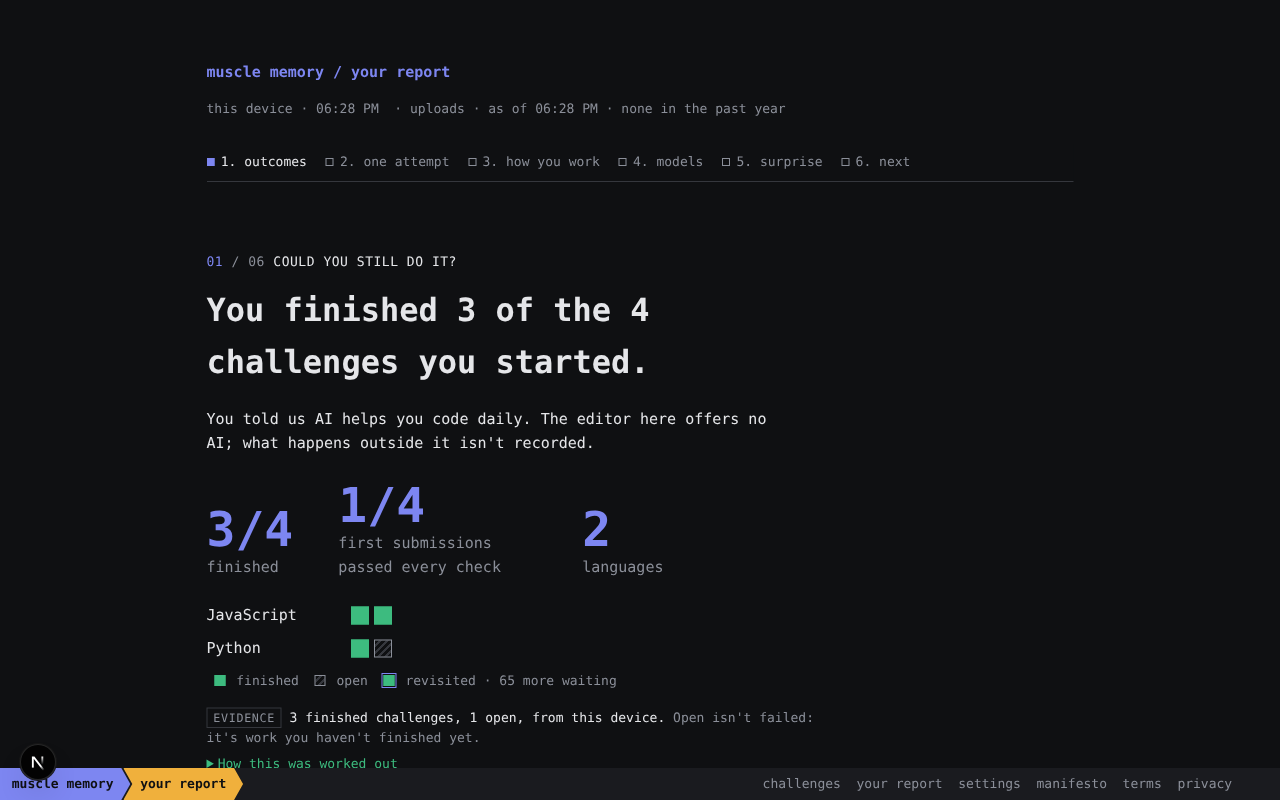
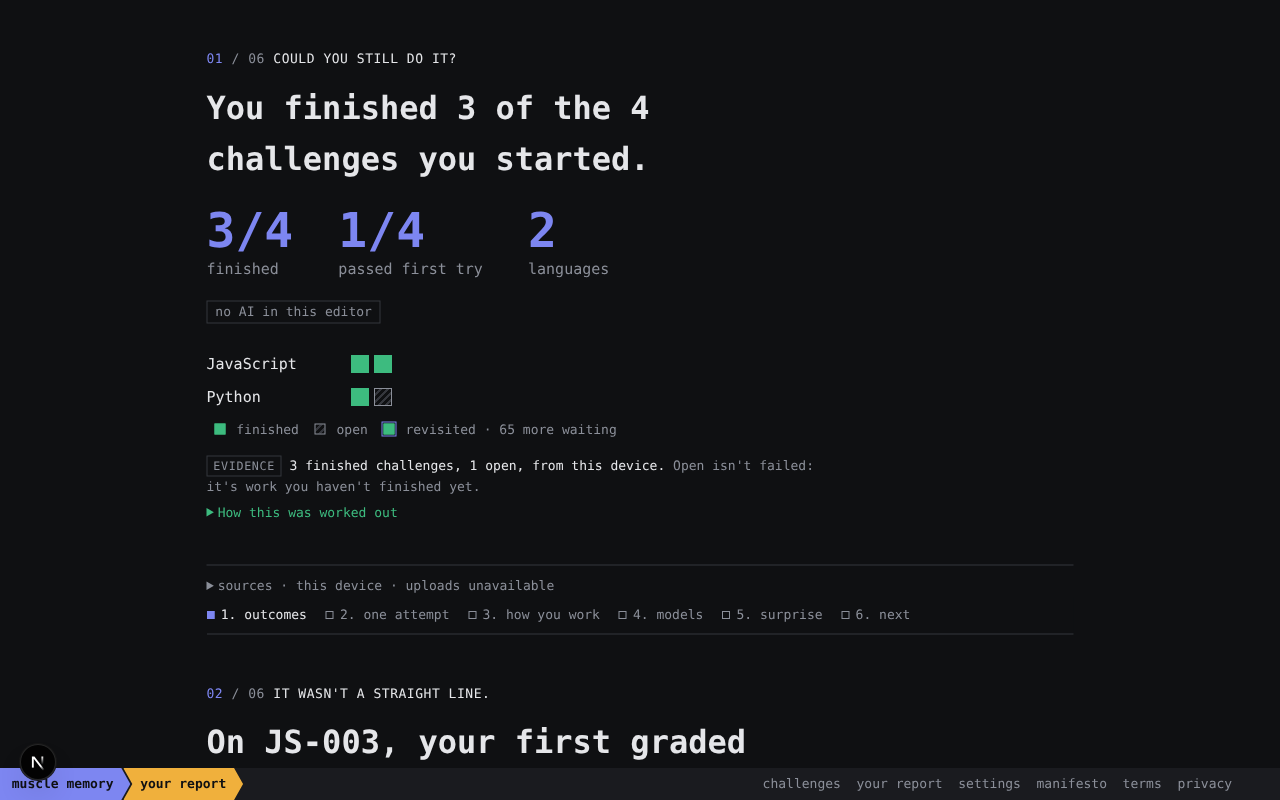
Lead with the reveal and state why people aren't compared (ENG-374)
Root found the mobile first viewport spent on branding, freshness metadata and
navigation, and the people column implied a checked cohort. Chapter 1's
headline and numbers now open the page, sources collapse to one line after it,
the AI note is a label, and comparisons with people say they're not on yet
because no minimum group size or player-facing aggregate path is approved.

diff --git a/apps/web/lib/report.ts b/apps/web/lib/report.ts
@@ -23,6 +23,17 @@ export type ReportAttempt = AttemptSummary & { source: Source };
 export const SMALL_STEP_SHARE = 0.75;
 export const LARGE_STEP_SHARE = 0.3;
 export const FREQUENT_CHECKS = 3;
+/**
+ * Comparisons with other people. There is no player-facing aggregate path and no approved minimum
+ * group size (docs/legal.md, publication boundaries), so the report states that reason; it never
+ * implies a cohort was checked and came back small. Replace with a real cohort read once both exist.
+ */
+export const PEOPLE = {
+  available: false,
+  label: "not compared yet",
+  reason:
+    "Comparing you with other people needs an approved minimum group size first. Until then the report shows no figure about anyone else.",
+} as const;
 /** At most this many tasks in the model comparison, so receipt reads stay bounded. */
 export const COMPARISON_TASKS = 3;
 
@@ -72,7 +83,8 @@ export interface OutcomesChapter {
   id: "outcomes";
   title: "Could you still do it?";
   headline: string;
-  context: string | null;
+  /** A short label when the person said AI does much of their coding; the full sentence is in the details. */
+  aiNote: string | null;
   heroes: { value: string; label: string }[];
   languages: { language: string; label: string; items: ChallengeOutcome[] }[];
   unexplored: number;
@@ -258,7 +270,7 @@ function outcomes(input: ReportInput): {
     profile?.aiUse === "daily" ||
     profile?.aiShare === "most" ||
     profile?.aiShare === "nearly-all";
-  const context = heavy
+  const aiDetail = heavy
     ? `You told us AI ${profile?.aiUse === "daily" ? "helps you code daily" : "writes much of the code you ship"}. The editor here offers no AI; what happens outside it isn't recorded.`
     : null;
   const firsts = attempts.filter(
@@ -270,7 +282,7 @@ function outcomes(input: ReportInput): {
   if (firsts.length)
     heroes.push({
       value: `${firsts.filter((a) => a.values.firstSubmit === 1).length}/${firsts.length}`,
-      label: "first submissions passed every check",
+      label: "passed first try",
     });
   if (revisited)
     heroes.push({ value: `${revisited}`, label: `revisited` });
@@ -286,7 +298,7 @@ function outcomes(input: ReportInput): {
       id: "outcomes",
       title: "Could you still do it?",
       headline,
-      context,
+      aiNote: heavy ? "no AI in this editor" : null,
       heroes: heroes.slice(0, 3),
       languages: languages.map((language) => ({
         language,
@@ -301,6 +313,7 @@ function outcomes(input: ReportInput): {
             ? "Open isn't failed: it's work you haven't finished yet."
             : undefined,
         details: [
+          ...(aiDetail ? [aiDetail] : []),
           "Finished means a submission passed every check and rule at least once. Open means started on this device or in your uploads without that.",
           "Revisited means more than one attempt or completion of the same challenge.",
           firsts.length
@@ -499,6 +512,7 @@ function habits(attempts: readonly ReportAttempt[]): HabitChapter | null {
           ? `Came back after leaving: ${returned.join(", ")}.`
           : "No recorded returns to an unfinished attempt.",
         "Attempts with recording gaps or oversized edits are left out rather than counted as zero.",
+        `People: ${PEOPLE.reason}`,
       ],
     },
   };
@@ -620,7 +634,7 @@ function minds(input: ReportInput): {
         details: [
           "A model result counts only when its recorded runtime and editor diagnostics match yours; otherwise it's withheld.",
           "Models use edit, run and submit tools rather than a keyboard. Outside help on either side isn't recorded.",
-          "People like you: not enough comparable participants yet. No cohort is shown until enough people share the same challenge version, language and conditions, and small groups stay hidden.",
+          `People: ${PEOPLE.reason}`,
         ],
       },
     },
@@ -762,7 +776,7 @@ function next(
       ? {
           label: "Add your coding experience (optional)",
           href: "/settings/profile/experience",
-          why: "When enough people take part, it lets the report compare you with developers like you. Skip it any time; nothing here depends on it.",
+          why: "Used only if comparisons with other people are switched on. Skip it any time; nothing here depends on it.",
         }
       : null;
   return {

diff --git a/apps/web/app/stats/stats.tsx b/apps/web/app/stats/stats.tsx
@@ -1,7 +1,7 @@
 "use client";
 import Link from "next/link";
 import React, { useMemo, useState } from "react";
-import { buildReport, mergeEvidence, type Report } from "../../lib/report";
+import { buildReport, mergeEvidence, PEOPLE, type Report } from "../../lib/report";
 import type { ChallengeSummary } from "../../lib/challenges";
 import { useReportData, type HistoryStatus } from "./report-data";
 import { ChapterNav, ChapterView, Preview } from "./report-view";
@@ -43,9 +43,20 @@ function Freshness({
 }) {
   const time = (iso: string) =>
     new Date(iso).toLocaleTimeString([], { hour: "2-digit", minute: "2-digit" });
+  const uploads =
+    history.state === "ready"
+      ? history.value.attempts.length
+        ? `+${history.value.attempts.length} uploaded`
+        : "no uploads"
+      : history.state === "loading" || history.state === "idle"
+        ? "adding uploads…"
+        : "uploads unavailable";
   return (
-    <p className="report-status" role="status">
-      <span>
+    <details className="report-sources">
+      <summary>
+        sources <span className="t-dim">· this device · {uploads}</span>
+      </summary>
+      <p role="status">
         From this device{at ? `, read ${time(at)}` : ""}.{" "}
         {history.state === "ready"
           ? history.value.attempts.length
@@ -55,13 +66,13 @@ function Freshness({
             ? "Adding your uploads…"
             : history.message}
         {history.state === "ready" && history.notice ? ` ${history.notice}` : ""}
-      </span>
+      </p>
       {history.state === "ready" && history.value.next && (
         <button type="button" className="t-cmd" onClick={more}>
           read more uploads
         </button>
       )}
-    </p>
+    </details>
   );
 }
 
@@ -102,13 +113,15 @@ export function ReportBody({
   const count = report.chapters.length;
   return (
     <>
-      <header className="report-hero">
-        <h1 className="t-brand report-brand">muscle memory / your report</h1>
+      {/* The reveal comes first; where the evidence came from and the chapter list follow it. */}
+      <h1 className="sr-only">Your Muscle Memory report</h1>
+      <ChapterView chapter={report.chapters[0]} index={0} count={count} report={report} />
+      <div className="report-after-lead">
         {status}
-      </header>
-      <ChapterNav chapters={report.chapters} />
-      {report.chapters.map((c, i) => (
-        <ChapterView key={c.id} chapter={c} index={i} count={count} report={report} />
+        <ChapterNav chapters={report.chapters} />
+      </div>
+      {report.chapters.slice(1).map((c, i) => (
+        <ChapterView key={c.id} chapter={c} index={i + 1} count={count} report={report} />
       ))}
       {!report.chapters.some((c) => c.id === "story") && <Preview />}
     </>
@@ -201,8 +214,7 @@ export function Dashboard({ catalog }: { catalog: ChallengeSummary[] }) {
                 Nothing here measures intelligence, attention or dependence on AI.
                 No recorded help in the editor doesn&apos;t mean no outside help.
                 Model results are single observed tries on the exact same
-                challenge version. Comparisons with other people appear only once
-                enough comparable participants exist, with small groups hidden.
+                challenge version. {PEOPLE.reason}
               </p>
               <p>
                 Reset clears this device&apos;s progress, not your uploads, so the

diff --git a/apps/web/lib/report.test.ts b/apps/web/lib/report.test.ts
@@ -110,7 +110,7 @@ test("rich synthetic evidence tells all six chapters from what was recorded", ()
   const o = chapter<OutcomesChapter>(r, "outcomes")!;
   assert.equal(o.headline, "You finished all 2 challenges you started.");
   assert.deepEqual(o.heroes[0], { value: "2/2", label: "finished" });
-  assert.deepEqual(o.heroes[1], { value: "0/2", label: "first submissions passed every check" });
+  assert.deepEqual(o.heroes[1], { value: "0/2", label: "passed first try" });
   assert.equal(o.languages.length, 2);
   assert.ok(o.languages[0].items[0].revisited, "two completions are a revisit");
 
@@ -134,7 +134,8 @@ test("rich synthetic evidence tells all six chapters from what was recorded", ()
   assert.equal(pyRow.models[0].cell.kind, "withheld", "a runtime mismatch withholds the outcome");
   assert.match(m.headline, /You solved 2 of 2\. synthetic\/model solved 1 of 1\./);
   assert.match(m.evidence.caveat!, /one observed try, not a success rate/);
-  assert.match(m.evidence.details.join(" "), /not enough comparable participants/);
+  assert.match(m.evidence.details.join(" "), /needs an approved minimum group size/);
+  assert.doesNotMatch(JSON.stringify(r.chapters), /not enough|too few/, "no cohort result is implied");
 
   const u = chapter<SurpriseChapter>(r, "surprise")!;
   assert.equal(u.kind, "recovered");
@@ -195,9 +196,11 @@ test("stories never form from a trace without checks, and gaps are shortened, no
 
 test("AI background shapes copy only when the person said so", () => {
   const p = progressOf({ "JS-001": { completedAt: null, completions: 0 } });
-  assert.equal(chapter<OutcomesChapter>(buildReport(input({ progress: p })), "outcomes")!.context, null);
-  assert.equal(chapter<OutcomesChapter>(buildReport(input({ progress: p, profile: { aiUse: "rarely" } })), "outcomes")!.context, null);
-  const c = chapter<OutcomesChapter>(buildReport(input({ progress: p, profile: { aiUse: "daily" } })), "outcomes")!.context!;
+  assert.equal(chapter<OutcomesChapter>(buildReport(input({ progress: p })), "outcomes")!.aiNote, null);
+  assert.equal(chapter<OutcomesChapter>(buildReport(input({ progress: p, profile: { aiUse: "rarely" } })), "outcomes")!.aiNote, null);
+  const o = chapter<OutcomesChapter>(buildReport(input({ progress: p, profile: { aiUse: "daily" } })), "outcomes")!;
+  assert.equal(o.aiNote, "no AI in this editor");
+  const c = o.evidence.details[0];
   assert.match(c, /editor here offers no AI/);
   assert.doesNotMatch(c, /without AI|unaided|deteriorat/i);
 });

diff --git a/apps/web/app/stats/report-view.tsx b/apps/web/app/stats/report-view.tsx
@@ -15,7 +15,7 @@ import type {
   StoryChapter,
   SurpriseChapter,
 } from "../../lib/report";
-import { shareText } from "../../lib/report";
+import { PEOPLE, shareText } from "../../lib/report";
 
 const percent = (x: number) => `${Math.round(x * 1000) / 10}%`;
 
@@ -75,7 +75,6 @@ function Outcomes({ c }: { c: OutcomesChapter }) {
   return (
     <>
       <h2 className="report-headline">{c.headline}</h2>
-      {c.context && <p className="report-context">{c.context}</p>}
       <dl className="report-heroes">
         {c.heroes.map((h) => (
           <div key={h.label}>
@@ -84,6 +83,7 @@ function Outcomes({ c }: { c: OutcomesChapter }) {
           </div>
         ))}
       </dl>
+      {c.aiNote && <p className="report-chip">{c.aiNote}</p>}
       <div className="report-grid" role="group" aria-label="Challenges you started">
         {c.languages.map((l) => (
           <div className="report-grid-row" key={l.language}>
@@ -209,8 +209,7 @@ function Habits({ c }: { c: HabitChapter }) {
       )}
       {c.checks.length > 1 && <p className="t-dim report-caption">checks per attempt, oldest first</p>}
       <p className="report-cohort">
-        <span className="t-dim">People like you:</span> not enough comparable
-        participants yet. Your position appears here once there are.
+        <span className="t-dim">People:</span> {PEOPLE.label}
       </p>
       <EvidenceLine evidence={c.evidence} />
     </>
@@ -301,7 +300,7 @@ function Minds({ c }: { c: ComparisonChapter }) {
                   </td>
                 )}
                 <td>
-                  <span className="t-dim">too few yet</span>
+                  <span className="t-dim">{PEOPLE.label}</span>
                 </td>
               </tr>
             ))}

diff --git a/apps/web/app/stats/stats.css b/apps/web/app/stats/stats.css
@@ -41,7 +41,36 @@
 
 /* Lead and status */
 .report-hero {
-  margin: 2.4em 0 1.6em;
+  margin: 1.2em 0 1.6em;
+}
+.report-chapter:first-of-type {
+  padding-top: 0.8em;
+}
+.report-after-lead {
+  display: flex;
+  flex-wrap: wrap;
+  align-items: baseline;
+  gap: 0 3ch;
+}
+.report-sources {
+  font-size: var(--text-sm, 13px);
+  color: var(--t-dim);
+  padding: 0.8em 0 0;
+}
+.report-sources summary {
+  padding: 0;
+}
+.report-sources p {
+  margin: 0.4em 0;
+  max-width: 72ch;
+}
+.report-chip {
+  display: inline-block;
+  font-size: var(--text-sm, 13px);
+  color: var(--t-dim);
+  border: 1px solid var(--t-line);
+  padding: 0 1ch;
+  margin: 0 0 0.8em;
 }
 .report-headline {
   font-size: clamp(1.35rem, 3.2vw, 2rem) !important;
@@ -96,10 +125,10 @@
   position: sticky;
   top: -24px;
   z-index: 1;
+  flex: 1 1 100%;
   background: var(--t-bg);
   border-bottom: 1px solid var(--t-line);
   padding: 0.6em 0;
-  margin-bottom: 1.6em;
   font-size: var(--text-sm, 13px);
 }
 .report-nav ol {
@@ -151,7 +180,7 @@
   align-items: flex-start;
   flex-wrap: wrap;
   gap: 1.2em 5ch;
-  margin: 1.6em 0;
+  margin: 1.2em 0;
 }
 .report-heroes div {
   display: flex;
@@ -586,7 +615,20 @@
     gap: 1ch;
   }
   .report-hero {
-    margin-top: 1.6em;
+    margin-top: 0.8em;
+  }
+  .report-heroes {
+    gap: 0.8em 3ch;
+  }
+  .report-heroes dd {
+    font-size: 1.8rem;
+  }
+  .report-heroes dt {
+    max-width: 14ch;
+    font-size: var(--text-sm, 13px);
+  }
+  .report-kicker {
+    margin: 0;
   }
   .report-nav-label {
     font-size: 0.95em;

diff --git a/apps/web/app/stats/stats.test.ts b/apps/web/app/stats/stats.test.ts
@@ -54,6 +54,7 @@ test("a rich report opens on a personal takeaway with chapters, visuals and evid
   assert.match(html, /chapter-story/);
   assert.match(html, /Checkpoints on JS-001, in order/);
   assert.match(html, /reading…/);
-  assert.match(html, /too few yet/);
+  assert.match(html, /not compared yet/);
+  assert.doesNotMatch(html, /too few|not enough comparable/);
   assert.doesNotMatch(html, /UTC|developer-profile-2/);
 });

diff --git a/docs/developer-profile.md b/docs/developer-profile.md
@@ -10,12 +10,14 @@
 | --- | --- | --- | --- |
 | 1. Could you still do it? | Device progress plus device/uploaded attempts: finished, open, revisited, languages; first-submit outcomes from complete traces | Anything was started | A global ability score; open is never failed. AI background shapes copy only when the person said they use AI daily or it writes most of their code |
 | 2. It wasn't a straight line. | One real attempt's checkpoints (starts, example runs, submissions with passing checks, leaving, returning, completion), placed by wall clock with gaps over 10 minutes shortened | An attempt has at least two checks or a submission, preferring a finished attempt that recovered from a failed submission | That idle time is thinking; no synthetic trace stands in |
-| 3. You have a way of working. | Small (≤20 units) vs bigger edits and checks per attempt, from complete traces; returns to unfinished work | At least one complete trace with edits | Personality, typo or attention judgements. Headline cut-offs (`SMALL_STEP_SHARE`, `LARGE_STEP_SHARE`, `FREQUENT_CHECKS`) choose wording, not norms. Human position: "not enough comparable participants yet" |
-| 4. Same challenge. Different minds. | Up to three of the person's exact revisions beside stored model receipts (one try per model/reasoning slot) | Any attempt on a published revision | Success rates or a speed race. Mismatched runtime/diagnostics withhold the model outcome; loading/unavailable/missing/stopped/refused stay distinct. People column: "too few yet" |
+| 3. You have a way of working. | Small (≤20 units) vs bigger edits and checks per attempt, from complete traces; returns to unfinished work | At least one complete trace with edits | Personality, typo or attention judgements. Headline cut-offs (`SMALL_STEP_SHARE`, `LARGE_STEP_SHARE`, `FREQUENT_CHECKS`) choose wording, not norms. Human position: "not compared yet" (`PEOPLE`, see below) |
+| 4. Same challenge. Different minds. | Up to three of the person's exact revisions beside stored model receipts (one try per model/reasoning slot) | Any attempt on a published revision | Success rates or a speed race. Mismatched runtime/diagnostics withhold the model outcome; loading/unavailable/missing/stopped/refused stay distinct. People column: "not compared yet" |
 | 5. The part you might not have noticed. | In order: low retrospective confidence on a clean first-submission pass; fewer submissions on a later finished attempt at the same revision and conditions; finishing after a failed first submission (not the chapter 2 attempt) | One of these holds | Prospective calibration, general improvement from a familiar task, or causal AI claims |
 | 6. What will you find out next? | Resume an open runnable challenge; otherwise a new topic in the main language, a new language, or any fresh task. Optional experience answer if unanswered. Optional share | Always | Unlock thresholds. Sharing copies only the sentences the person ticks to the clipboard; nothing is posted |
 
-The first screen is the chapter 1 takeaway, with a compact freshness line ("this device · uploads as of …"). Chapter progress is a sticky list of anchor links that highlights as chapters scroll in. Visuals are text-sized blocks and marks in the terminal palette; bars grow in only under `prefers-reduced-motion: no-preference`. Every visual has a text equivalent (screen-reader lists, `role="img"` labels or a table).
+The first screen is the chapter 1 headline and hero numbers. A one-line "sources" disclosure (device, uploads, freshness, read more) and the chapter navigation follow chapter 1; the navigation is sticky from there and highlights chapters as they scroll in. When the person said AI does much of their coding, chapter 1 shows a short "no AI in this editor" label, with the full sentence in its details.
+
+**Comparisons with other people are not implemented, by reason, not by sample size.** The only aggregate reader is the internal admin statistics view, which includes stealth accounts and isn't player-facing, and there is no approved minimum group size (`docs/legal.md`, publication boundaries). `PEOPLE` in `report.ts` therefore renders "not compared yet", with that reason in the details; it never implies a cohort was checked and came back small. Delivering it needs: (1) an approved minimum group size, including combined profile slices and separate handling of 16–17-year-olds; (2) approval for a player-facing aggregate read (fixed per-revision counts/distributions over the existing events, excluding stealth participants by their latest uploaded `site.profile` stealth answer, using the existing SQL credential, cached); (3) confirmation that in-product comparisons fall under the notice's published-insights terms. Visuals are text-sized blocks and marks in the terminal palette; bars grow in only under `prefers-reduced-motion: no-preference`. Every visual has a text equivalent (screen-reader lists, `role="img"` labels or a table).
 
 A new player sees one invitation, a start action and a preview explicitly labelled "sample data, not yours". Stealth shows only what stealth means and a link to privacy settings.
 

diff --git a/docs/eng-374-evidence/README.md b/docs/eng-374-evidence/README.md
@@ -6,11 +6,14 @@ All populated screens use **explicitly synthetic** practice records (fixture par
 | --- | --- | --- |
 | Rich: chapter 1, first viewport | [outcomes](rich-desktop-1-outcomes.png) | [outcomes](rich-mobile-1-outcomes.png) |
 | Rich: chapter 2 timeline (fail → leave → return → finish, 3h gap shortened) | [story](rich-desktop-2-story.png) | [story](rich-mobile-2-story.png) |
-| Rich: chapter 4 result grid (solved, stopped, no receipt, "too few yet" people) | [models](rich-desktop-4-models.png) | [models](rich-mobile-4-models.png) |
+| Rich: chapter 3 habits, people "not compared yet" | [habits](rich-desktop-3-habits.png) | |
+| Rich: chapter 4 result grid (solved, stopped, no receipt; people "not compared yet") | [models](rich-desktop-4-models.png) | [models](rich-mobile-4-models.png) |
 | Rich: chapters 5–6 (quiet confidence; resume the open challenge) | [surprise + next](rich-desktop-5-6-surprise-next.png) | |
 | Partial: one unfinished attempt, no trace (the PDF case) | | [partial](partial-mobile.png) |
 | Empty: new player | [empty](empty-desktop.png) | |
 | Stealth | | [stealth](stealth-mobile.png) |
+
+After root's review, the first viewport leads with chapter 1's headline and hero numbers. Sources and freshness are a one-line disclosure (here showing "uploads unavailable", the honest state while the history SQL repair is pending), and chapter navigation follows chapter 1. The AI note is a short label, with the full sentence in the details. The outcomes, habits and models screenshots were recaptured; the story and surprise screenshots predate this layout change but their chapters are unchanged.
 
 Observed in the browser:
 
